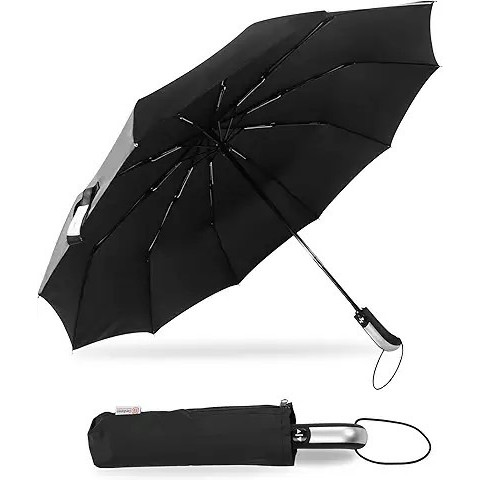
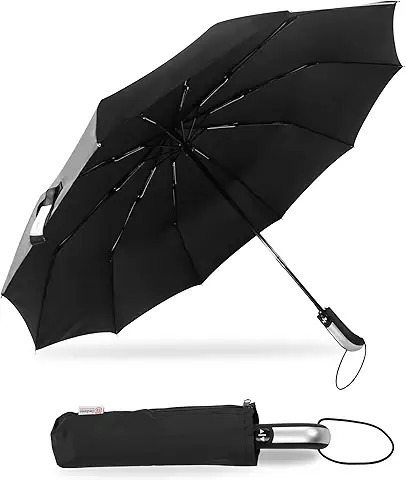
.

diff --git a/src/App.jsx b/src/App.jsx
@@ -85,7 +85,7 @@ function ProductModal({ product, cart, addOne, removeOne, onClose }) {
         <div className="overflow-y-auto flex-1 pb-4">
           <div className="mx-4 rounded-2xl overflow-hidden bg-zinc-50 h-52 mb-4 border border-zinc-100 relative">
             {product.tag && <span className="absolute top-3 left-3 z-10 text-[10px] font-bold text-green-700 bg-green-100/90 px-2.5 py-1 rounded-full uppercase tracking-wide shadow-sm">{product.tag}</span>}
-            {product.image ? <img src={product.image} alt={product.name} loading="lazy" className="w-full h-full object-contain" /> : <div className="w-full h-full flex items-center justify-center"><CatIcon className="w-16 h-16 text-zinc-200" /></div>}
+            {product.image ? <img src={product.image} alt={product.name} loading="lazy" className="w-full h-full object-cover" /> : <div className="w-full h-full flex items-center justify-center"><CatIcon className="w-16 h-16 text-zinc-200" /></div>}
           </div>
           <div className="px-5">
             <h2 className="text-lg font-bold text-zinc-900 leading-snug mb-1">{product.name}</h2>
@@ -184,7 +184,7 @@ function GateScreen({ collegeId, setCollegeId, setScreen }) {
       <div className="absolute bottom-20 right-0 w-56 h-56 bg-indigo-500/10 rounded-full blur-3xl pointer-events-none" />
       <div className="flex-1 overflow-y-auto px-6 pt-6 pb-2 safe-top relative z-10">
         <div className="mb-16">
-          <img src="/logo.png" alt="Wisor" className="h-14 object-contain mb-2" />
+          <img src="/logo.png" alt="Wisor" className="h-20 object-contain mb-2 -ml-5" />
           <div className="text-zinc-500 text-xs font-medium">Your hostel room, sorted.</div>
         </div>
         <h1 className="text-3xl font-bold leading-tight mb-2">Which campus are<br />you joining?</h1>
@@ -298,7 +298,7 @@ function CategoryScreen({ college, activeCategory, setActiveCategory, setScreen,
                   {p.tag && <span className="absolute top-2 left-2 z-10 text-[10px] font-bold text-green-700 bg-green-100/90 px-2 py-0.5 rounded-full uppercase tracking-wide">{p.tag}</span>}
                   {p.image ? (
                     <div className="h-32 rounded-xl bg-zinc-50 mb-2.5 overflow-hidden relative border border-zinc-100/50">
-                      <img src={p.image} alt={p.name} loading="lazy" className="w-full h-full object-contain" />
+                      <img src={p.image} alt={p.name} loading="lazy" className="w-full h-full object-cover" />
                     </div>
                   ) : (
                     <div className="h-24 rounded-xl bg-zinc-50 flex items-center justify-center mb-2.5 border border-zinc-100/50">
@@ -390,7 +390,7 @@ function CartScreen({ cartItems, categoriesCovered, subtotal, total, deliveryFee
                     {items.map((item) => (
                       <div key={item.id} className="flex items-start gap-3">
                         {item.image ? (
-                          <div className="w-12 h-12 rounded-xl bg-zinc-50 border border-zinc-100 flex-shrink-0 overflow-hidden"><img src={item.image} alt="" className="w-full h-full object-contain" /></div>
+                          <div className="w-12 h-12 rounded-xl bg-zinc-50 border border-zinc-100 flex-shrink-0 overflow-hidden"><img src={item.image} alt="" className="w-full h-full object-cover" /></div>
                         ) : (
                           <div className="w-12 h-12 rounded-xl bg-zinc-50 border border-zinc-100 flex items-center justify-center flex-shrink-0"><Icon className="w-4 h-4 text-zinc-300" /></div>
                         )}
@@ -417,7 +417,7 @@ function CartScreen({ cartItems, categoriesCovered, subtotal, total, deliveryFee
                 <div className="absolute -right-4 -top-4 w-16 h-16 bg-indigo-200/50 rounded-full blur-xl" />
                 <h3 className="text-[10px] font-bold text-indigo-500 tracking-wider uppercase mb-3 flex items-center gap-2 relative z-10">🎁 Special Offer Unlocked</h3>
                 <div className="flex items-center gap-3 relative z-10">
-                  <div className="w-12 h-12 rounded-xl bg-white border border-indigo-100 flex-shrink-0 overflow-hidden p-1.5"><img src="/cloud_pillow.webp" alt="" className="w-full h-full object-contain rounded-lg" /></div>
+                  <div className="w-12 h-12 rounded-xl bg-white border border-indigo-100 flex-shrink-0 overflow-hidden p-1.5"><img src="/cloud_pillow.webp" alt="" className="w-full h-full object-cover rounded-lg" /></div>
                   <div className="flex-1 min-w-0">
                     <div className="text-sm font-bold text-indigo-900">Cloud Pillow {mattressCount > 1 ? `(x${mattressCount})` : ''}</div>
                     <div className="text-xs text-indigo-700">Free with mattress</div>
@@ -657,7 +657,7 @@ function DesktopGate({ collegeId, setCollegeId, setScreen }) {
         <div className="absolute -top-20 -left-20 w-72 h-72 bg-orange-500/10 rounded-full blur-3xl pointer-events-none" />
         <div className="absolute bottom-10 right-5 w-56 h-56 bg-indigo-500/10 rounded-full blur-3xl pointer-events-none" />
         <div>
-          <img src="/logo.png" alt="Wisor" className="h-16 object-contain mb-2" />
+          <img src="/logo.png" alt="Wisor" className="h-20 object-contain mb-2 -ml-5" />
           <div className="text-zinc-500 text-sm font-medium">Your hostel room, sorted.</div>
         </div>
         <div className="relative z-10">
@@ -786,7 +786,7 @@ function DesktopShop({ college, activeCategory, setActiveCategory, setScreen, ca
               <div key={p.id} className="bg-white border border-zinc-200 rounded-2xl overflow-hidden shadow-sm hover:shadow-lg hover:-translate-y-0.5 transition-all duration-200 cursor-pointer flex flex-col group" onClick={() => setSelectedProduct(p)}>
                 <div className="h-40 bg-zinc-50 relative overflow-hidden border-b border-zinc-100">
                   {p.tag && <span className="absolute top-2.5 left-2.5 z-10 text-[10px] font-bold text-green-700 bg-green-100/90 px-2 py-0.5 rounded-full uppercase tracking-wide shadow-sm">{p.tag}</span>}
-                  {p.image ? <img src={p.image} alt={p.name} loading="lazy" className="w-full h-full object-contain group-hover:scale-105 transition-transform duration-300" /> : <div className="w-full h-full flex items-center justify-center"><CatIcon className="w-12 h-12 text-zinc-200" /></div>}
+                  {p.image ? <img src={p.image} alt={p.name} loading="lazy" className="w-full h-full object-cover group-hover:scale-105 transition-transform duration-300" /> : <div className="w-full h-full flex items-center justify-center"><CatIcon className="w-12 h-12 text-zinc-200" /></div>}
                 </div>
                 <div className="p-4 flex flex-col flex-1">
                   <div className="text-sm font-bold text-zinc-900 leading-snug mb-0.5">{p.name}</div>
@@ -848,7 +848,7 @@ function DesktopShop({ college, activeCategory, setActiveCategory, setScreen, ca
                 return (
                   <div key={item.id} className="flex items-center gap-3 py-2 border-b border-zinc-50">
                     <div className="w-10 h-10 rounded-xl bg-zinc-50 border border-zinc-100 overflow-hidden flex-shrink-0">
-                      {item.image ? <img src={item.image} alt="" className="w-full h-full object-contain" /> : <div className="w-full h-full flex items-center justify-center"><Icon className="w-4 h-4 text-zinc-300" /></div>}
+                      {item.image ? <img src={item.image} alt="" className="w-full h-full object-cover" /> : <div className="w-full h-full flex items-center justify-center"><Icon className="w-4 h-4 text-zinc-300" /></div>}
                     </div>
                     <div className="flex-1 min-w-0">
                       <div className="text-xs font-semibold text-zinc-900 leading-snug truncate">{item.name}</div>
@@ -864,7 +864,7 @@ function DesktopShop({ college, activeCategory, setActiveCategory, setScreen, ca
               })}
               {hasFreePillow && (
                 <div className="flex items-center gap-3 py-2 border-b border-zinc-50">
-                  <div className="w-10 h-10 rounded-xl bg-white border border-indigo-100 flex items-center justify-center flex-shrink-0 p-1"><img src="/cloud_pillow.webp" alt="" className="w-full h-full object-contain rounded-lg" /></div>
+                  <div className="w-10 h-10 rounded-xl bg-white border border-indigo-100 flex items-center justify-center flex-shrink-0 p-1"><img src="/cloud_pillow.webp" alt="" className="w-full h-full object-cover rounded-lg" /></div>
                   <div className="flex-1 min-w-0">
                     <div className="text-xs font-semibold text-indigo-800">Cloud Pillow {mattressCount > 1 ? `(x${mattressCount})` : ''}</div>
                     <div className="text-xs text-indigo-400">Free gift</div>
@@ -995,7 +995,7 @@ function DesktopDelivery({ delivery, setDelivery, setScreen, finalCartItems, sub
               {realItems.map(item => (
                 <div key={item.id} className="flex items-center gap-3">
                   <div className="w-9 h-9 rounded-xl bg-zinc-50 border border-zinc-100 overflow-hidden flex-shrink-0">
-                    {item.image && <img src={item.image} alt="" className="w-full h-full object-contain" />}
+                    {item.image && <img src={item.image} alt="" className="w-full h-full object-cover" />}
                   </div>
                   <div className="flex-1 min-w-0">
                     <div className="text-xs font-semibold text-zinc-800 truncate">{item.name}</div>